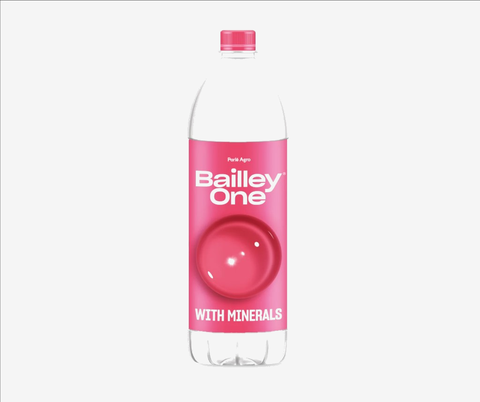
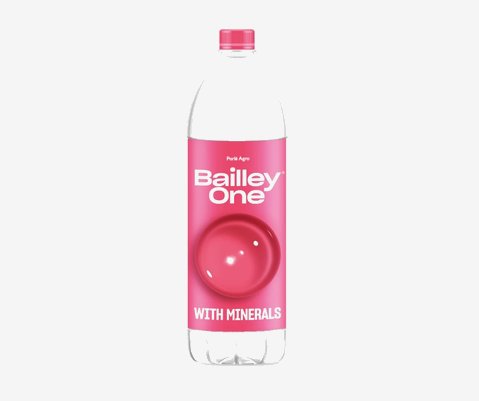
Refine product image styles in style.css for improved layout and consistency. Update image paths in products.js for Bailley products to new versions for cache busting. Replace multiple product images with updated versions for enhanced quality.

diff --git a/js/products.js b/js/products.js
@@ -521,7 +521,7 @@ const PRODUCTS = [
         id: "bailley-5l",
         category: "Bailley",
         name: "Bailley 5 Ltr Packaged Drinking Water",
-        image: "images/bailley/water-5l.png?v=2",
+        image: "images/bailley/water-5l.png?v=3",
         packs: "5 Ltr – Pack of 1",
         packList: ["5 Litre", "Pack of 1"],
         summary: "Bailley 5 litre packaged drinking water with minerals.",
@@ -535,7 +535,7 @@ const PRODUCTS = [
         id: "bailley-2l",
         category: "Bailley",
         name: "Bailley 2 Ltr Packaged Drinking Water",
-        image: "images/bailley/water-2l.png?v=2",
+        image: "images/bailley/water-2l.png?v=3",
         packs: "2 Ltr – Pack of 6",
         packList: ["2 Litre", "Pack of 6"],
         summary: "Bailley 2 litre packaged drinking water with minerals, pack of 6.",
@@ -548,7 +548,7 @@ const PRODUCTS = [
         id: "bailley-1l",
         category: "Bailley",
         name: "Bailley 1 Ltr Packaged Drinking Water",
-        image: "images/bailley/water-1l.png?v=2",
+        image: "images/bailley/water-1l.png?v=3",
         packs: "1 Ltr – Pack of 12",
         packList: ["1 Litre", "Pack of 12"],
         summary: "Bailley 1 litre packaged drinking water with minerals, pack of 12.",
@@ -561,7 +561,7 @@ const PRODUCTS = [
         id: "bailley-one-1l",
         category: "Bailley",
         name: "Bailley One 1 Ltr Packaged Drinking Water",
-        image: "images/bailley/bailley-one-1l.png?v=2",
+        image: "images/bailley/bailley-one-1l.png?v=3",
         packs: "1 Ltr – Pack of 12 – Bailley One",
         packList: ["1 Litre", "Pack of 12", "Bailley One"],
         summary: "Bailley One 1 litre packaged drinking water with minerals, pack of 12.",
@@ -574,7 +574,7 @@ const PRODUCTS = [
         id: "bailley-one-500ml",
         category: "Bailley",
         name: "Bailley One 500 ML Packaged Drinking Water",
-        image: "images/bailley/bailley-one-500ml.png?v=2",
+        image: "images/bailley/bailley-one-500ml.png?v=3",
         packs: "500 ML – Pack of 24 – Bailley One",
         packList: ["500 ML", "Pack of 24", "Bailley One"],
         summary: "Bailley One 500 ml packaged drinking water with minerals, pack of 24.",

diff --git a/css/style.css b/css/style.css
@@ -1772,6 +1772,9 @@ ul {
     min-height: 220px;
     max-height: 220px;
     border-radius: 12px;
+    border: none;
+    outline: none;
+    box-shadow: none;
     background-color: #f5f5f5;
     margin-bottom: 18px;
     overflow: hidden;
@@ -1783,12 +1786,16 @@ ul {
 }
 
 .product-img-box img {
-    max-width: 88%;
-    max-height: 88%;
+    max-width: 100%;
+    max-height: 100%;
     width: auto;
     height: auto;
     object-fit: contain;
-    padding: 0;
+    padding: 10px;
+    border: none;
+    outline: none;
+    box-shadow: none;
+    background: transparent;
     transition: transform 0.3s ease;
 }
 
@@ -5065,6 +5072,9 @@ video {
     min-height: 220px;
     max-height: 220px;
     border-radius: 12px;
+    border: none;
+    outline: none;
+    box-shadow: none;
     background-color: #f5f5f5;
     margin-bottom: 18px;
     overflow: hidden;
@@ -5080,11 +5090,15 @@ video {
 .products-grid .product-card .product-img-box img {
     width: auto !important;
     height: auto !important;
-    max-width: 88% !important;
-    max-height: 88% !important;
+    max-width: 100% !important;
+    max-height: 100% !important;
     object-fit: contain !important;
     object-position: center;
-    padding: 0 !important;
+    padding: 10px !important;
+    border: none !important;
+    outline: none !important;
+    box-shadow: none !important;
+    background: transparent !important;
     display: block;
 }
 
